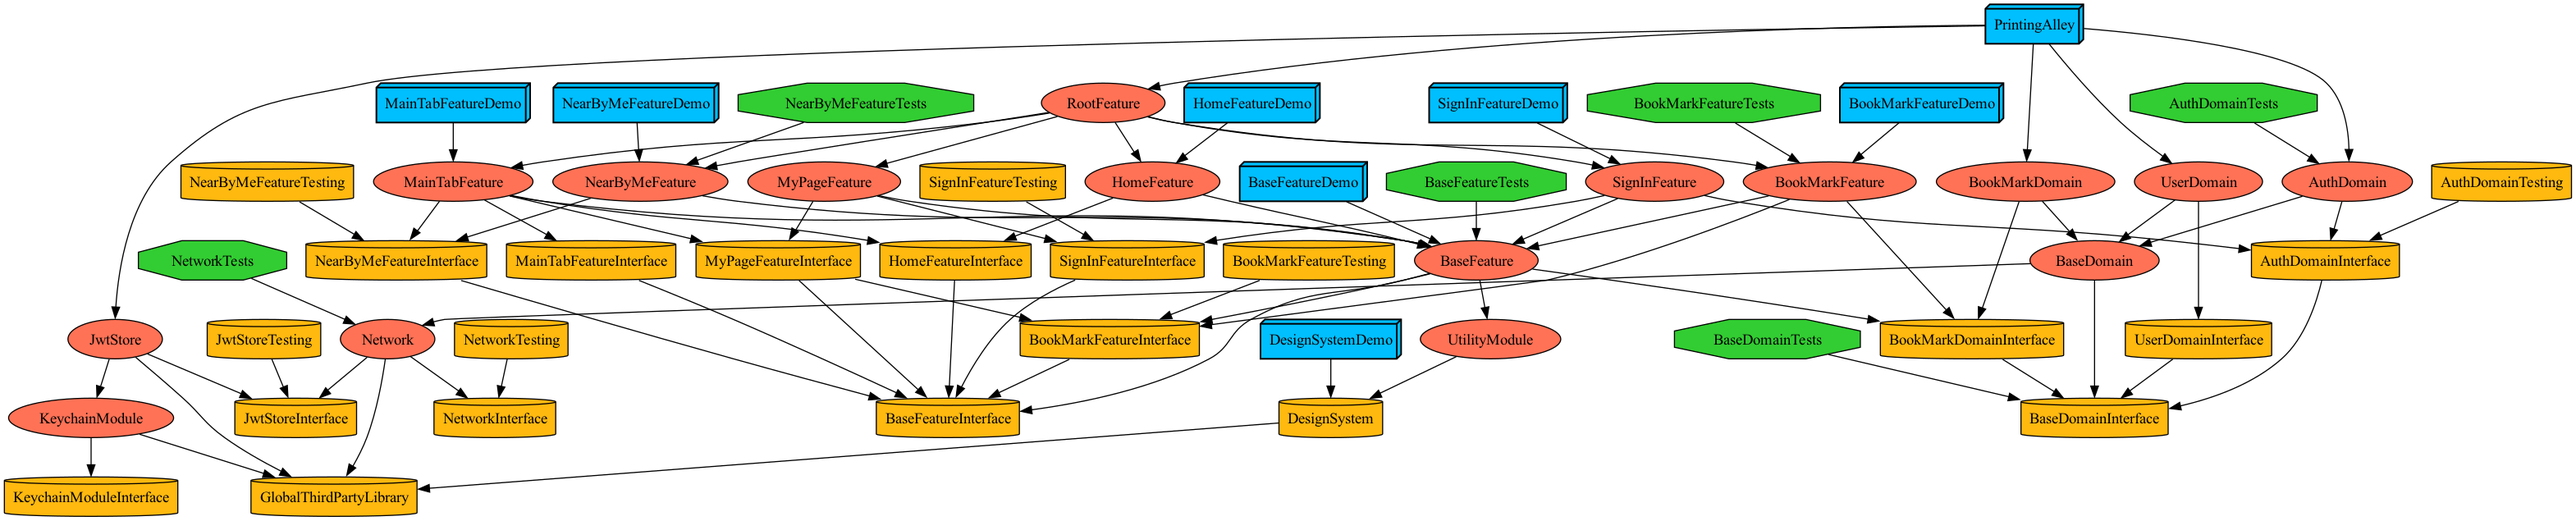
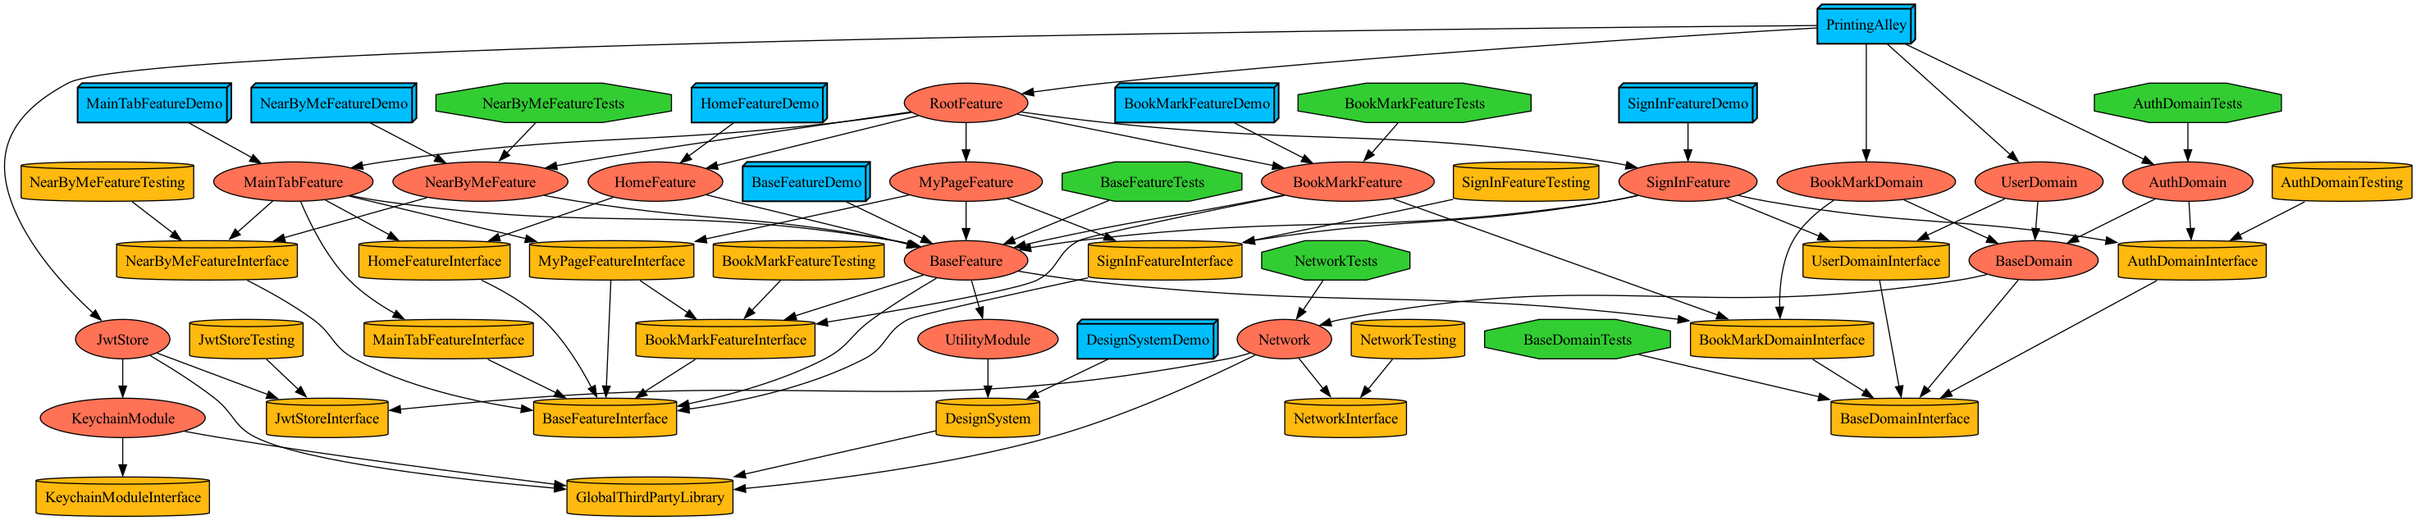
:recycle: :: 프로필 이름 재설정 유즈케이스 주입 이동

Changed region(s): [[0.0, 0.0, 0.9997, 1.0], [0.8122, 0.1496, 0.9684, 0.2394], [0.3436, 0.8976, 0.3749, 0.9276]]

diff --git a/Projects/Feature/BaseFeature/Sources/ViewModels/EditModalViewModel.swift b/Projects/Feature/BaseFeature/Sources/ViewModels/EditModalViewModel.swift
@@ -13,6 +13,7 @@ import UtilityModule
 import BookMarkDomainInterface
 import BaseFeatureInterface
 import BaseDomainInterface
+import UserDomainInterface
 
 public class EditModalViewModel: ViewModelType {
     
@@ -20,14 +21,17 @@ public class EditModalViewModel: ViewModelType {
     var type: EditType!
     var generateBookMarkUseCase: any GenerateBookMarkUseCase
     var renameBookMarkGroupUseCase: any RenameBookMarkGroupUseCase
+    var renameUserUseCase: any RenameUserUseCase
+    
     var id: Int = -1
     //TODO: 프로필 이름 변경 유즈 케이스
     
-    init(id:Int = -1, type: EditType!, generateBookMarkUseCase: GenerateBookMarkUseCase,renameBookMarkGroupUseCase: RenameBookMarkGroupUseCase) {
+    init(id:Int = -1, type: EditType!, generateBookMarkUseCase: GenerateBookMarkUseCase,renameBookMarkGroupUseCase: RenameBookMarkGroupUseCase, renameUserUseCase: RenameUserUseCase) {
         self.id = id
         self.type = type
         self.generateBookMarkUseCase = generateBookMarkUseCase
         self.renameBookMarkGroupUseCase = renameBookMarkGroupUseCase
+        self.renameUserUseCase = renameUserUseCase
     }
     
     deinit {
@@ -109,7 +113,7 @@ extension EditModalViewModel {
                         })
                         .asObservable()
                     
-                case .reNameprofileName:
+//                case .reNameprofileName:
                     
                     
                 default:

diff --git a/Projects/Feature/BaseFeature/Sources/DI/EditModalComponent.swift b/Projects/Feature/BaseFeature/Sources/DI/EditModalComponent.swift
@@ -11,15 +11,17 @@ import BaseFeatureInterface
 import NeedleFoundation
 import UIKit
 import BookMarkDomainInterface
+import UserDomainInterface
 
 public protocol EditModalDependency: Dependency {
     
     var bookMarkDomainFactory: any BookMarkDomainFactory { get }
+    var userDomainFactory: any UserDomainFactory { get }
 }
 
 public final class EditModalComponent: Component<EditModalDependency>, EditModalFactory {
     public func makeView(id: Int, title: String, type: EditType) -> UIViewController {
-        EditModalViewController(title: title, viewModel: EditModalViewModel(id: id, type: type, generateBookMarkUseCase: dependency.bookMarkDomainFactory.generateBookMarkUseCase, renameBookMarkGroupUseCase: dependency.bookMarkDomainFactory.renameBookMarkGroupUseCase))
+        EditModalViewController(title: title, viewModel: EditModalViewModel(id: id, type: type, generateBookMarkUseCase: dependency.bookMarkDomainFactory.generateBookMarkUseCase, renameBookMarkGroupUseCase: dependency.bookMarkDomainFactory.renameBookMarkGroupUseCase, renameUserUseCase: dependency.userDomainFactory.renameUserUseCase))
     }
     
 }

diff --git a/Projects/App/Sources/Application/NeedleGenerated.swift b/Projects/App/Sources/Application/NeedleGenerated.swift
@@ -212,6 +212,9 @@ private class EditModalDependencye914ce2425a804be0d58Provider: EditModalDependen
     var bookMarkDomainFactory: any BookMarkDomainFactory {
         return appComponent.bookMarkDomainFactory
     }
+    var userDomainFactory: any UserDomainFactory {
+        return appComponent.userDomainFactory
+    }
     private let appComponent: AppComponent
     init(appComponent: AppComponent) {
         self.appComponent = appComponent
@@ -340,6 +343,7 @@ extension BookMarkBottomSheetComponent: Registration {
 extension EditModalComponent: Registration {
     public func registerItems() {
         keyPathToName[\EditModalDependency.bookMarkDomainFactory] = "bookMarkDomainFactory-any BookMarkDomainFactory"
+        keyPathToName[\EditModalDependency.userDomainFactory] = "userDomainFactory-any UserDomainFactory"
     }
 }
 extension BookMarkDomainComponent: Registration {

diff --git a/Projects/Feature/MyPageFeature/Sources/DI/MyPageContentComponent.swift b/Projects/Feature/MyPageFeature/Sources/DI/MyPageContentComponent.swift
@@ -22,6 +22,6 @@ public protocol MyPageContentDependency: Dependency {
 
 public final class MyPageContentComponent: Component<MyPageContentDependency>, MyPageContentFactory {
     public func makeView() -> UIViewController {
-        MyPageContentViewController(bookMarkFactory: dependency.bookMarkFactory, editModalFactory: dependency.editModalFactory,viewModel: MyPageContentViewModel(fetchUserInfoUseCase: dependency.userDomainFactory.fetchUserInfoUseCase, renameUserUseCase: dependency.userDomainFactory.renameUserUseCase))
+        MyPageContentViewController(bookMarkFactory: dependency.bookMarkFactory, editModalFactory: dependency.editModalFactory,viewModel: MyPageContentViewModel(fetchUserInfoUseCase: dependency.userDomainFactory.fetchUserInfoUseCase))
     }
 }

diff --git a/Projects/Feature/MyPageFeature/Sources/ViewModel/MyPageContentViewModel.swift b/Projects/Feature/MyPageFeature/Sources/ViewModel/MyPageContentViewModel.swift
@@ -24,11 +24,9 @@ final class MyPageContentViewModel : ViewModelType {
     let categories:[MyPageCategory] = [.pushAlarmSetting, .faq, .request, .service]
     
     var fetchUserInfoUseCase: any FetchUserInfoUseCase
-    var renameUserUseCase: any RenameUserUseCase
-    
-    init(fetchUserInfoUseCase: FetchUserInfoUseCase, renameUserUseCase: RenameUserUseCase) {
+   
+    init(fetchUserInfoUseCase: FetchUserInfoUseCase) {
         self.fetchUserInfoUseCase = fetchUserInfoUseCase
-        self.renameUserUseCase = renameUserUseCase
     }
     
     struct Input {
